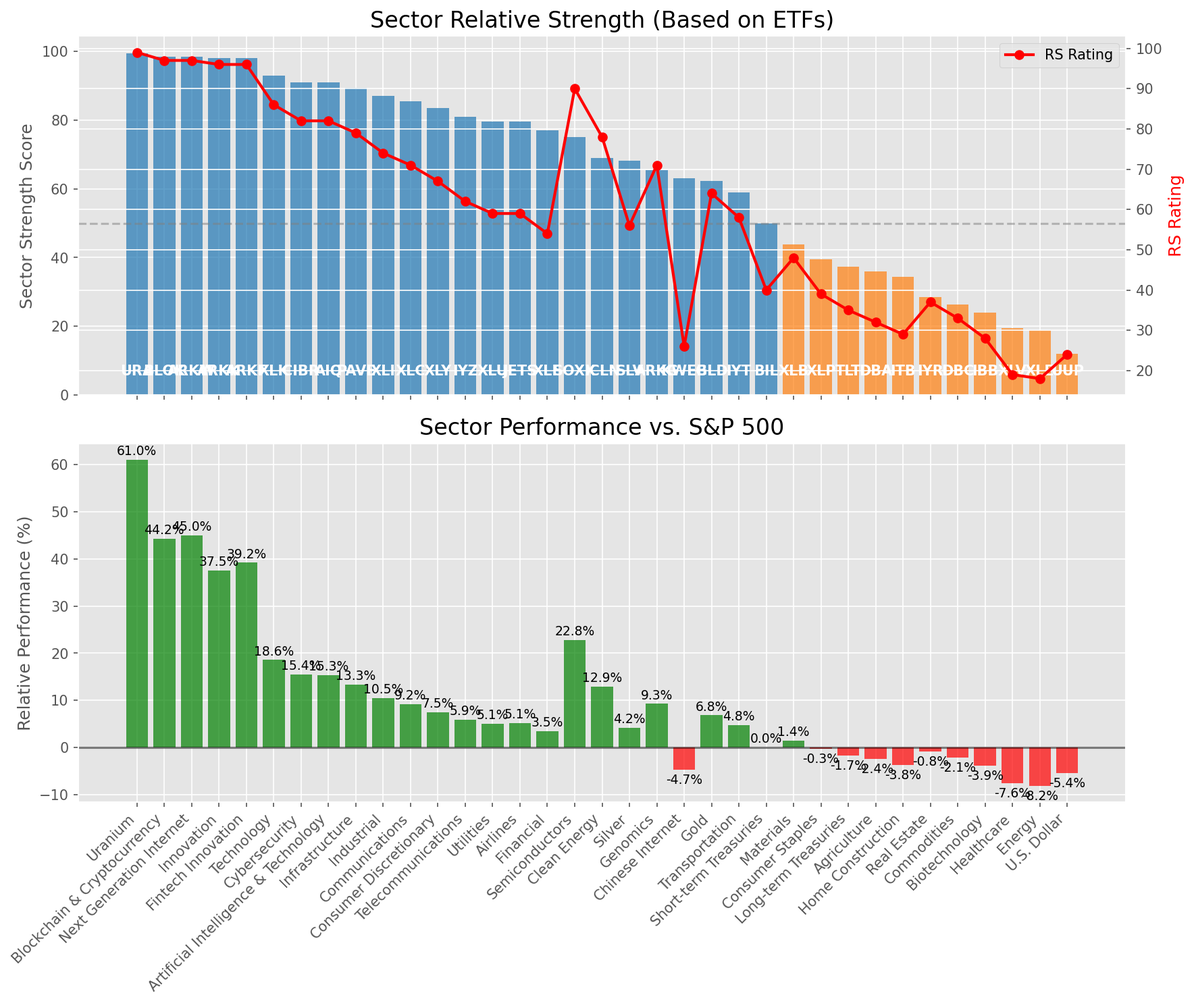
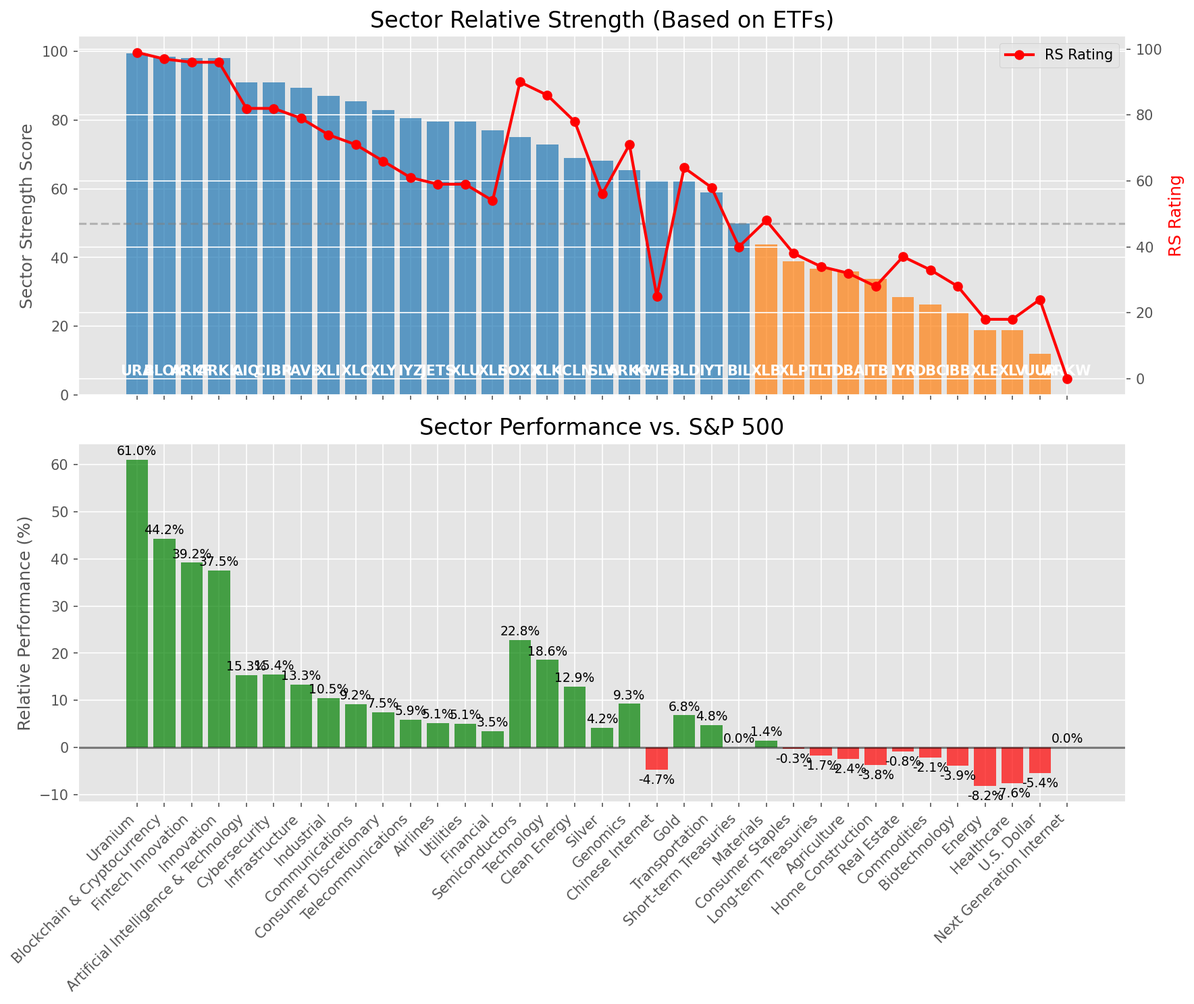
Add market report for 2025-06-29

diff --git a/oneil_relative_strength_report_2025-06-29.md b/oneil_relative_strength_report_2025-06-29.md
@@ -51,39 +51,39 @@ Based on William O'Neil's Relative Strength Methodology
 |-----|----------|-----------|-------------|--------------|-------|--------|
 | [URA](https://www.tradingview.com/chart/?symbol=URA) | 99.5 | 99.0 | 61.04% | 10d ✓, 50d ✓, 200d ✓ | ↗ | Uranium |
 | [BLOK](https://www.tradingview.com/chart/?symbol=BLOK) | 98.5 | 97.0 | 44.22% | 10d ✓, 50d ✓, 200d ✓ | ↗ | Blockchain & Cryptocurrency |
-| [ARKW](https://www.tradingview.com/chart/?symbol=ARKW) | 98.5 | 97.0 | 44.98% | 10d ✓, 50d ✓, 200d ✓ | ↗ | Next Generation Internet |
-| [ARKK](https://www.tradingview.com/chart/?symbol=ARKK) | 98.0 | 96.0 | 37.53% | 10d ✓, 50d ✓, 200d ✓ | ↗ | Innovation |
 | [ARKF](https://www.tradingview.com/chart/?symbol=ARKF) | 98.0 | 96.0 | 39.19% | 10d ✓, 50d ✓, 200d ✓ | ↗ | Fintech Innovation |
-| [XLK](https://www.tradingview.com/chart/?symbol=XLK) | 93.0 | 86.0 | 18.56% | 10d ✓, 50d ✓, 200d ✓ | ↗ | Technology |
-| [CIBR](https://www.tradingview.com/chart/?symbol=CIBR) | 91.0 | 82.0 | 15.45% | 10d ✓, 50d ✓, 200d ✓ | ↗ | Cybersecurity |
+| [ARKK](https://www.tradingview.com/chart/?symbol=ARKK) | 98.0 | 96.0 | 37.53% | 10d ✓, 50d ✓, 200d ✓ | ↗ | Innovation |
 | [AIQ](https://www.tradingview.com/chart/?symbol=AIQ) | 91.0 | 82.0 | 15.28% | 10d ✓, 50d ✓, 200d ✓ | ↗ | Artificial Intelligence & Technology |
+| [CIBR](https://www.tradingview.com/chart/?symbol=CIBR) | 91.0 | 82.0 | 15.45% | 10d ✓, 50d ✓, 200d ✓ | ↗ | Cybersecurity |
 | [PAVE](https://www.tradingview.com/chart/?symbol=PAVE) | 89.5 | 79.0 | 13.28% | 10d ✓, 50d ✓, 200d ✓ | ↗ | Infrastructure |
 | [XLI](https://www.tradingview.com/chart/?symbol=XLI) | 87.0 | 74.0 | 10.46% | 10d ✓, 50d ✓, 200d ✓ | ↗ | Industrial |
 | [XLC](https://www.tradingview.com/chart/?symbol=XLC) | 85.5 | 71.0 | 9.15% | 10d ✓, 50d ✓, 200d ✓ | ↗ | Communications |
-| [XLY](https://www.tradingview.com/chart/?symbol=XLY) | 83.5 | 67.0 | 7.49% | 10d ✓, 50d ✓, 200d ✓ | ↗ | Consumer Discretionary |
-| [IYZ](https://www.tradingview.com/chart/?symbol=IYZ) | 81.0 | 62.0 | 5.93% | 10d ✓, 50d ✓, 200d ✓ | ↗ | Telecommunications |
-| [XLU](https://www.tradingview.com/chart/?symbol=XLU) | 79.5 | 59.0 | 5.06% | 10d ✓, 50d ✓, 200d ✓ | ↗ | Utilities |
+| [XLY](https://www.tradingview.com/chart/?symbol=XLY) | 83.0 | 66.0 | 7.49% | 10d ✓, 50d ✓, 200d ✓ | ↗ | Consumer Discretionary |
+| [IYZ](https://www.tradingview.com/chart/?symbol=IYZ) | 80.5 | 61.0 | 5.93% | 10d ✓, 50d ✓, 200d ✓ | ↗ | Telecommunications |
 | [JETS](https://www.tradingview.com/chart/?symbol=JETS) | 79.5 | 59.0 | 5.14% | 10d ✓, 50d ✓, 200d ✓ | ↗ | Airlines |
+| [XLU](https://www.tradingview.com/chart/?symbol=XLU) | 79.5 | 59.0 | 5.06% | 10d ✓, 50d ✓, 200d ✓ | ↗ | Utilities |
 | [XLF](https://www.tradingview.com/chart/?symbol=XLF) | 77.0 | 54.0 | 3.51% | 10d ✓, 50d ✓, 200d ✓ | ↗ | Financial |
 | [SOXX](https://www.tradingview.com/chart/?symbol=SOXX) | 75.0 | 90.0 | 22.77% | 10d ✓, 50d ✓, 200d ✓ | ↘ | Semiconductors |
+| [XLK](https://www.tradingview.com/chart/?symbol=XLK) | 73.0 | 86.0 | 18.56% | 10d ✓, 50d ✓, 200d ✓ | ↘ | Technology |
 | [ICLN](https://www.tradingview.com/chart/?symbol=ICLN) | 69.0 | 78.0 | 12.92% | 10d ✓, 50d ✓, 200d ✓ | ↘ | Clean Energy |
 | [SLV](https://www.tradingview.com/chart/?symbol=SLV) | 68.1 | 56.0 | 4.15% | 10d ✗, 50d ✓, 200d ✓ | ↗ | Silver |
 | [ARKG](https://www.tradingview.com/chart/?symbol=ARKG) | 65.5 | 71.0 | 9.26% | 10d ✓, 50d ✓, 200d ✓ | ↘ | Genomics |
-| [KWEB](https://www.tradingview.com/chart/?symbol=KWEB) | 63.0 | 26.0 | -4.67% | 10d ✓, 50d ✓, 200d ✓ | ↗ | Chinese Internet |
+| [KWEB](https://www.tradingview.com/chart/?symbol=KWEB) | 62.5 | 25.0 | -4.67% | 10d ✓, 50d ✓, 200d ✓ | ↗ | Chinese Internet |
 | [GLD](https://www.tradingview.com/chart/?symbol=GLD) | 62.2 | 64.0 | 6.83% | 10d ✗, 50d ✗, 200d ✓ | ↗ | Gold |
 | [IYT](https://www.tradingview.com/chart/?symbol=IYT) | 59.0 | 58.0 | 4.81% | 10d ✓, 50d ✓, 200d ✓ | ↘ | Transportation |
 | [BIL](https://www.tradingview.com/chart/?symbol=BIL) | 50.0 | 40.0 | 0.02% | 10d ✓, 50d ✓, 200d ✓ | ↘ | Short-term Treasuries |
 | [XLB](https://www.tradingview.com/chart/?symbol=XLB) | 43.8 | 48.0 | 1.44% | 10d ✓, 50d ✓, 200d ✗ | ↘ | Materials |
-| [XLP](https://www.tradingview.com/chart/?symbol=XLP) | 39.5 | 39.0 | -0.32% | 10d ✗, 50d ✗, 200d ✗ | ↗ | Consumer Staples |
-| [TLT](https://www.tradingview.com/chart/?symbol=TLT) | 37.3 | 35.0 | -1.71% | 10d ✓, 50d ✓, 200d ✗ | ↘ | Long-term Treasuries |
+| [XLP](https://www.tradingview.com/chart/?symbol=XLP) | 39.0 | 38.0 | -0.32% | 10d ✗, 50d ✗, 200d ✗ | ↗ | Consumer Staples |
+| [TLT](https://www.tradingview.com/chart/?symbol=TLT) | 36.8 | 34.0 | -1.71% | 10d ✓, 50d ✓, 200d ✗ | ↘ | Long-term Treasuries |
 | [DBA](https://www.tradingview.com/chart/?symbol=DBA) | 36.0 | 32.0 | -2.35% | 10d ✗, 50d ✗, 200d ✗ | ↗ | Agriculture |
-| [ITB](https://www.tradingview.com/chart/?symbol=ITB) | 34.3 | 29.0 | -3.76% | 10d ✓, 50d ✓, 200d ✗ | ↘ | Home Construction |
+| [ITB](https://www.tradingview.com/chart/?symbol=ITB) | 33.8 | 28.0 | -3.76% | 10d ✓, 50d ✓, 200d ✗ | ↘ | Home Construction |
 | [IYR](https://www.tradingview.com/chart/?symbol=IYR) | 28.4 | 37.0 | -0.79% | 10d ✗, 50d ✓, 200d ✗ | ↘ | Real Estate |
 | [DBC](https://www.tradingview.com/chart/?symbol=DBC) | 26.4 | 33.0 | -2.07% | 10d ✗, 50d ✓, 200d ✗ | ↘ | Commodities |
 | [IBB](https://www.tradingview.com/chart/?symbol=IBB) | 23.9 | 28.0 | -3.88% | 10d ✗, 50d ✓, 200d ✗ | ↘ | Biotechnology |
-| [XLV](https://www.tradingview.com/chart/?symbol=XLV) | 19.4 | 19.0 | -7.62% | 10d ✓, 50d ✗, 200d ✗ | ↘ | Healthcare |
 | [XLE](https://www.tradingview.com/chart/?symbol=XLE) | 18.9 | 18.0 | -8.15% | 10d ✗, 50d ✓, 200d ✗ | ↘ | Energy |
+| [XLV](https://www.tradingview.com/chart/?symbol=XLV) | 18.9 | 18.0 | -7.62% | 10d ✓, 50d ✗, 200d ✗ | ↘ | Healthcare |
 | [UUP](https://www.tradingview.com/chart/?symbol=UUP) | 12.0 | 24.0 | -5.39% | 10d ✗, 50d ✗, 200d ✗ | ↘ | U.S. Dollar |
+| [ARKW](https://www.tradingview.com/chart/?symbol=ARKW) | 0.0 | 0.0 | 0.00% | 10d ✗, 50d ✗, 200d ✗ | ↘ | Next Generation Internet |
 
 ### **Sector ETF Performance Interpretation**
 
@@ -98,7 +98,7 @@ This table shows the relative strength metrics for different market sectors base
 
 ### **Current Sector Leadership**
 
-The current market leadership is coming from the following sectors: **Uranium, Blockchain & Cryptocurrency, Next Generation Internet**.
+The current market leadership is coming from the following sectors: **Uranium, Blockchain & Cryptocurrency, Fintech Innovation**.
 
 The **Uranium** sector (represented by **URA**) is showing particularly strong relative strength with an RS rating of 99.0 and performance of 61.04% vs. the S&P 500. This sector is trading above its 10-day, 50-day, 200-day moving average(s). Investors should consider focusing on high RS stocks within these leading sectors for potential outperformance.
 
@@ -106,11 +106,10 @@ The **Uranium** sector (represented by **URA**) is showing particularly strong r
 
 ## **Buy Recommendations**
 
-The following 97 stocks show exceptional relative strength:
+The following 90 stocks show exceptional relative strength:
 
 | RS Rating | Buy Score | Current Price | Chart | Name | Ticker |
 |-----------|-----------|---------------|-------|------|--------|
-| 100 | 100 | $139.39 | [Chart](https://www.tradingview.com/chart/?symbol=LMB) | Limbach Holdings, Inc Common Stock | LMB |
 | 100 | 100 | $165.40 | [Chart](https://www.tradingview.com/chart/?symbol=SEZL) | Sezzle Inc. Common Stock | SEZL |
 | 100 | 100 | $152.67 | [Chart](https://www.tradingview.com/chart/?symbol=CLS) | Celestica, Inc. | CLS |
 | 100 | 100 | $83.03 | [Chart](https://www.tradingview.com/chart/?symbol=HOOD) | Robinhood Markets, Inc. Class A Common Stock | HOOD |
@@ -127,7 +126,6 @@ The following 97 stocks show exceptional relative strength:
 | 98 | 100 | $275.82 | [Chart](https://www.tradingview.com/chart/?symbol=CRS) | Carpenter Technology Corp | CRS |
 | 98 | 100 | $297.88 | [Chart](https://www.tradingview.com/chart/?symbol=TLN) | Talen Energy Corporation Common Stock | TLN |
 | 98 | 100 | $818.60 | [Chart](https://www.tradingview.com/chart/?symbol=AXON) | Axon Enterprise, Inc. Common Stock | AXON |
-| 98 | 100 | $43.99 | [Chart](https://www.tradingview.com/chart/?symbol=FARO) | Faro Technologies Inc | FARO |
 | 98 | 100 | $315.32 | [Chart](https://www.tradingview.com/chart/?symbol=ZS) | Zscaler, Inc. Common Stock | ZS |
 | 97 | 100 | $21.71 | [Chart](https://www.tradingview.com/chart/?symbol=MIR) | Mirion Technologies, Inc. | MIR |
 | 97 | 100 | $154.71 | [Chart](https://www.tradingview.com/chart/?symbol=IRTC) | iRhythm Technologies, Inc | IRTC |
@@ -135,85 +133,80 @@ The following 97 stocks show exceptional relative strength:
 | 97 | 100 | $45.84 | [Chart](https://www.tradingview.com/chart/?symbol=KTOS) | Kratos Defense & Security Solutions, Inc. | KTOS |
 | 97 | 100 | $39.36 | [Chart](https://www.tradingview.com/chart/?symbol=AS) | Amer Sports, Inc. | AS |
 | 96 | 100 | $54.13 | [Chart](https://www.tradingview.com/chart/?symbol=BBW) | Build-A-Bear Workshop, Inc. | BBW |
-| 96 | 100 | $309.51 | [Chart](https://www.tradingview.com/chart/?symbol=RCL) | Royal Caribbean Group | RCL |
+| 96 | 100 | $1323.12 | [Chart](https://www.tradingview.com/chart/?symbol=NFLX) | NetFlix Inc | NFLX |
 | 96 | 100 | $184.90 | [Chart](https://www.tradingview.com/chart/?symbol=HWM) | Howmet Aerospace Inc. | HWM |
 | 96 | 100 | $149.22 | [Chart](https://www.tradingview.com/chart/?symbol=COOP) | Mr. Cooper Group Inc. Common Stock | COOP |
 | 96 | 100 | $499.33 | [Chart](https://www.tradingview.com/chart/?symbol=CRWD) | CrowdStrike Holdings, Inc. Class A Common Stock | CRWD |
 | 95 | 100 | $772.60 | [Chart](https://www.tradingview.com/chart/?symbol=SPOT) | Spotify Technology S.A. | SPOT |
 | 95 | 100 | $69.40 | [Chart](https://www.tradingview.com/chart/?symbol=URBN) | Urban Outfitters Inc | URBN |
-| 95 | 100 | $1323.12 | [Chart](https://www.tradingview.com/chart/?symbol=NFLX) | NetFlix Inc | NFLX |
 | 95 | 100 | $45.04 | [Chart](https://www.tradingview.com/chart/?symbol=DRS) | Leonardo DRS, Inc. Common Stock | DRS |
 | 94 | 100 | $245.96 | [Chart](https://www.tradingview.com/chart/?symbol=WWD) | Woodward, Inc. | WWD |
+| 94 | 100 | $132.65 | [Chart](https://www.tradingview.com/chart/?symbol=NTES) | NetEase, inc. | NTES |
+| 94 | 100 | $56.19 | [Chart](https://www.tradingview.com/chart/?symbol=AKRO) | Akero Therapeutics, Inc. Common Stock | AKRO |
 | 94 | 100 | $42.83 | [Chart](https://www.tradingview.com/chart/?symbol=CHWY) | Chewy, Inc. | CHWY |
-| 94 | 100 | $76.16 | [Chart](https://www.tradingview.com/chart/?symbol=TPB) | Turning Point Brands, Inc. | TPB |
 | 94 | 100 | $72.17 | [Chart](https://www.tradingview.com/chart/?symbol=ULS) | UL Solutions Inc. | ULS |
+| 94 | 100 | $19.22 | [Chart](https://www.tradingview.com/chart/?symbol=AVPT) | AvePoint, Inc. Class A Common Stock | AVPT |
+| 94 | 100 | $73.22 | [Chart](https://www.tradingview.com/chart/?symbol=CORT) | Corcept Therapeutics Inc. | CORT |
 | 94 | 100 | $34.52 | [Chart](https://www.tradingview.com/chart/?symbol=UTI) | Universal Technical Institute, Inc. | UTI |
 | 93 | 100 | $53.96 | [Chart](https://www.tradingview.com/chart/?symbol=IBKR) | Interactive Brokers Group, Inc. Class A Common Stock | IBKR |
-| 93 | 100 | $56.19 | [Chart](https://www.tradingview.com/chart/?symbol=AKRO) | Akero Therapeutics, Inc. Common Stock | AKRO |
 | 93 | 100 | $105.07 | [Chart](https://www.tradingview.com/chart/?symbol=JCI) | Johnson Controls International plc | JCI |
-| 93 | 100 | $73.22 | [Chart](https://www.tradingview.com/chart/?symbol=CORT) | Corcept Therapeutics Inc. | CORT |
 | 93 | 100 | $23.54 | [Chart](https://www.tradingview.com/chart/?symbol=BTSG) | BrightSpring Health Services, Inc. Common Stock | BTSG |
 | 93 | 100 | $41.46 | [Chart](https://www.tradingview.com/chart/?symbol=KD) | Kyndryl Holdings, Inc. | KD |
 | 93 | 100 | $32.98 | [Chart](https://www.tradingview.com/chart/?symbol=PRDO) | Perdoceo Education Corporation | PRDO |
-| 93 | 100 | $40.09 | [Chart](https://www.tradingview.com/chart/?symbol=LTM) | LATAM Airlines Group S.A. American Depositary Shares (each representing two thousand (2,000) shares of Common Stock) | LTM |
 | 92 | 100 | $242.31 | [Chart](https://www.tradingview.com/chart/?symbol=DASH) | DoorDash, Inc. Class A Common Stock | DASH |
 | 92 | 100 | $98.07 | [Chart](https://www.tradingview.com/chart/?symbol=SANM) | Sanmina  Corp | SANM |
+| 92 | 100 | $28.05 | [Chart](https://www.tradingview.com/chart/?symbol=SRAD) | Sportradar Group AG Class A Ordinary Shares | SRAD |
+| 91 | 100 | $83.25 | [Chart](https://www.tradingview.com/chart/?symbol=SLNO) | Soleno Therapeutics, Inc. Common Stock | SLNO |
 | 91 | 100 | $43.89 | [Chart](https://www.tradingview.com/chart/?symbol=TOST) | Toast, Inc. | TOST |
 | 91 | 100 | $30.40 | [Chart](https://www.tradingview.com/chart/?symbol=DB) | Deutsche Bank Aktiengesellschaft | DB |
-| 91 | 100 | $28.05 | [Chart](https://www.tradingview.com/chart/?symbol=SRAD) | Sportradar Group AG Class A Ordinary Shares | SRAD |
 | 91 | 100 | $23.91 | [Chart](https://www.tradingview.com/chart/?symbol=KAR) | OPENLANE, Inc | KAR |
 | 91 | 100 | $254.51 | [Chart](https://www.tradingview.com/chart/?symbol=GE) | GE Aerospace | GE |
 | 91 | 100 | $59.18 | [Chart](https://www.tradingview.com/chart/?symbol=SHLD) | Global X Defense Tech ETF | SHLD |
 | 90 | 100 | $60.72 | [Chart](https://www.tradingview.com/chart/?symbol=IBIT) | iShares Bitcoin Trust ETF | IBIT |
-| 90 | 100 | $83.25 | [Chart](https://www.tradingview.com/chart/?symbol=SLNO) | Soleno Therapeutics, Inc. Common Stock | SLNO |
-| 90 | 100 | $140.56 | [Chart](https://www.tradingview.com/chart/?symbol=PPA) | Invesco Aerospace & Defense ETF | PPA |
+| 90 | 100 | $167.18 | [Chart](https://www.tradingview.com/chart/?symbol=CAH) | Cardinal Health, Inc. | CAH |
 | 90 | 100 | $53.41 | [Chart](https://www.tradingview.com/chart/?symbol=MRCY) | Mercury Systems Inc. | MRCY |
 | 90 | 100 | $44.86 | [Chart](https://www.tradingview.com/chart/?symbol=BBIO) | BridgeBio Pharma, Inc. Common Stock | BBIO |
 | 90 | 100 | $48.80 | [Chart](https://www.tradingview.com/chart/?symbol=INOD) | Innodata Inc. | INOD |
-| 89 | 100 | $167.18 | [Chart](https://www.tradingview.com/chart/?symbol=CAH) | Cardinal Health, Inc. | CAH |
 | 89 | 100 | $27.59 | [Chart](https://www.tradingview.com/chart/?symbol=UVE) | UNIVERSAL INSURANCE HLDG, INC. | UVE |
+| 89 | 100 | $20.40 | [Chart](https://www.tradingview.com/chart/?symbol=SPNT) | SiriusPoint Ltd. | SPNT |
 | 89 | 100 | $62.25 | [Chart](https://www.tradingview.com/chart/?symbol=CAKE) | Cheesecake Factory (The) | CAKE |
-| 88 | 100 | $122.20 | [Chart](https://www.tradingview.com/chart/?symbol=EHC) | Encompass Health Corporation Common Stock | EHC |
 | 88 | 100 | $36.07 | [Chart](https://www.tradingview.com/chart/?symbol=AHR) | American Healthcare REIT, Inc. | AHR |
 | 87 | 100 | $159.31 | [Chart](https://www.tradingview.com/chart/?symbol=SE) | Sea Limited American Depositary Shares, each representing one Class A Ordinary Share | SE |
-| 88 | 99 | $20.40 | [Chart](https://www.tradingview.com/chart/?symbol=SPNT) | SiriusPoint Ltd. | SPNT |
-| 87 | 99 | $313.08 | [Chart](https://www.tradingview.com/chart/?symbol=PODD) | Insulet Corporation | PODD |
-| 87 | 99 | $87.11 | [Chart](https://www.tradingview.com/chart/?symbol=TPR) | Tapestry, Inc. Common Stock | TPR |
+| 89 | 99 | $2560.05 | [Chart](https://www.tradingview.com/chart/?symbol=MELI) | Mercado Libre, Inc | MELI |
+| 88 | 99 | $122.20 | [Chart](https://www.tradingview.com/chart/?symbol=EHC) | Encompass Health Corporation Common Stock | EHC |
+| 88 | 99 | $313.08 | [Chart](https://www.tradingview.com/chart/?symbol=PODD) | Insulet Corporation | PODD |
+| 86 | 99 | $63.53 | [Chart](https://www.tradingview.com/chart/?symbol=CHEF) | The Chef's Warehouse Inc | CHEF |
 | 86 | 99 | $43.67 | [Chart](https://www.tradingview.com/chart/?symbol=EXEL) | Exelixis Inc | EXEL |
-| 87 | 98 | $5693.13 | [Chart](https://www.tradingview.com/chart/?symbol=BKNG) | Booking Holdings Inc. Common Stock | BKNG |
-| 87 | 98 | $187.55 | [Chart](https://www.tradingview.com/chart/?symbol=ITA) | iShares U.S. Aerospace & Defense ETF | ITA |
 | 87 | 98 | $283.41 | [Chart](https://www.tradingview.com/chart/?symbol=VEEV) | Veeva Systems Inc. | VEEV |
+| 87 | 98 | $87.11 | [Chart](https://www.tradingview.com/chart/?symbol=TPR) | Tapestry, Inc. Common Stock | TPR |
+| 87 | 98 | $74.39 | [Chart](https://www.tradingview.com/chart/?symbol=CTVA) | Corteva, Inc. Common Stock | CTVA |
+| 85 | 98 | $18.61 | [Chart](https://www.tradingview.com/chart/?symbol=BCS) | Barclays PLC | BCS |
 | 85 | 98 | $44.42 | [Chart](https://www.tradingview.com/chart/?symbol=VIRT) | Virtu Financial, Inc. Class A | VIRT |
-| 85 | 98 | $63.53 | [Chart](https://www.tradingview.com/chart/?symbol=CHEF) | The Chef's Warehouse Inc | CHEF |
 | 85 | 98 | $179.35 | [Chart](https://www.tradingview.com/chart/?symbol=TKO) | TKO Group Holdings, Inc. | TKO |
-| 85 | 98 | $289.70 | [Chart](https://www.tradingview.com/chart/?symbol=IBM) | International Business Machines Corporation | IBM |
+| 87 | 97 | $5693.13 | [Chart](https://www.tradingview.com/chart/?symbol=BKNG) | Booking Holdings Inc. Common Stock | BKNG |
 | 86 | 97 | $77.27 | [Chart](https://www.tradingview.com/chart/?symbol=USFD) | US Foods Holding Corp. | USFD |
-| 86 | 97 | $74.39 | [Chart](https://www.tradingview.com/chart/?symbol=CTVA) | Corteva, Inc. Common Stock | CTVA |
-| 84 | 97 | $18.61 | [Chart](https://www.tradingview.com/chart/?symbol=BCS) | Barclays PLC | BCS |
-| 84 | 97 | $180.05 | [Chart](https://www.tradingview.com/chart/?symbol=EAT) | Brinker International, Inc. | EAT |
+| 85 | 97 | $289.70 | [Chart](https://www.tradingview.com/chart/?symbol=IBM) | International Business Machines Corporation | IBM |
 | 83 | 97 | $91.38 | [Chart](https://www.tradingview.com/chart/?symbol=SNEX) | StoneX Group Inc. Common Stock | SNEX |
-| 86 | 96 | $111.84 | [Chart](https://www.tradingview.com/chart/?symbol=SPMO) | Invesco S&P 500 Momentum ETF | SPMO |
-| 85 | 96 | $105.27 | [Chart](https://www.tradingview.com/chart/?symbol=FWONK) | Liberty Media Corporation Series C Liberty Formula One Common Stock | FWONK |
+| 87 | 96 | $187.55 | [Chart](https://www.tradingview.com/chart/?symbol=ITA) | iShares U.S. Aerospace & Defense ETF | ITA |
 | 84 | 96 | $397.89 | [Chart](https://www.tradingview.com/chart/?symbol=CYBR) | CyberArk Software Ltd. | CYBR |
 | 86 | 95 | $211.01 | [Chart](https://www.tradingview.com/chart/?symbol=COF) | Capital One Financial | COF |
 | 85 | 95 | $132.80 | [Chart](https://www.tradingview.com/chart/?symbol=OLLI) | Ollie's Bargain Outlet Holdings, Inc. Common Stock | OLLI |
+| 85 | 95 | $105.27 | [Chart](https://www.tradingview.com/chart/?symbol=FWONK) | Liberty Media Corporation Series C Liberty Formula One Common Stock | FWONK |
 | 84 | 95 | $149.99 | [Chart](https://www.tradingview.com/chart/?symbol=LYV) | Live Nation Entertainment Inc. | LYV |
 | 84 | 95 | $223.90 | [Chart](https://www.tradingview.com/chart/?symbol=BAP) | Credicorp LTD | BAP |
-| 83 | 95 | $80.45 | [Chart](https://www.tradingview.com/chart/?symbol=LLYVK) | Liberty Media Corporation Series C Liberty Live Common Stock | LLYVK |
-| 81 | 95 | $20.30 | [Chart](https://www.tradingview.com/chart/?symbol=KT) | KT Corp. | KT |
-| 84 | 94 | $89.08 | [Chart](https://www.tradingview.com/chart/?symbol=NDAQ) | Nasdaq, Inc. Common Stock | NDAQ |
-| 82 | 94 | $74.59 | [Chart](https://www.tradingview.com/chart/?symbol=CIBR) | First Trust Exchange-Traded Fund II First Trust NASDAQ Cybersecurity ETF | CIBR |
+| 83 | 94 | $80.45 | [Chart](https://www.tradingview.com/chart/?symbol=LLYVK) | Liberty Media Corporation Series C Liberty Live Common Stock | LLYVK |
 | 81 | 94 | $28.21 | [Chart](https://www.tradingview.com/chart/?symbol=FMS) | Fresenius Medical Care AG | FMS |
-| 82 | 92 | $65.93 | [Chart](https://www.tradingview.com/chart/?symbol=SLF) | Sun Life Financial Inc. | SLF |
-| 81 | 91 | $89.56 | [Chart](https://www.tradingview.com/chart/?symbol=SEIC) | SEI Investments Co | SEIC |
+| 81 | 94 | $20.30 | [Chart](https://www.tradingview.com/chart/?symbol=KT) | KT Corp. | KT |
+| 82 | 93 | $74.59 | [Chart](https://www.tradingview.com/chart/?symbol=CIBR) | First Trust Exchange-Traded Fund II First Trust NASDAQ Cybersecurity ETF | CIBR |
 | 81 | 91 | $28.39 | [Chart](https://www.tradingview.com/chart/?symbol=NTGR) | NETGEAR, Inc. | NTGR |
+| 81 | 90 | $25.20 | [Chart](https://www.tradingview.com/chart/?symbol=PUK) | PRUDENTIAL PLC ADS (REP 2 ORD SHARES) | PUK |
 
 ---
 
 
 ## **Sell Recommendations**
 
-The following 81 stocks show deteriorating relative strength:
+The following 73 stocks show deteriorating relative strength:
 
 | RS Rating | Sell Score | Current Price | Chart | Name | Ticker |
 |-----------|------------|---------------|-------|------|--------|
@@ -224,80 +217,72 @@ The following 81 stocks show deteriorating relative strength:
 | 1 | 100 | $28.34 | [Chart](https://www.tradingview.com/chart/?symbol=HELE) | Helen Of Troy Ltd | HELE |
 | 2 | 100 | $11.64 | [Chart](https://www.tradingview.com/chart/?symbol=NRIX) | Nurix Therapeutics, Inc. Common stock | NRIX |
 | 2 | 100 | $25.63 | [Chart](https://www.tradingview.com/chart/?symbol=QID) | ProShares UltraShort QQQ | QID |
-| 2 | 100 | $10.76 | [Chart](https://www.tradingview.com/chart/?symbol=WNC) | Wabash National Corp. | WNC |
+| 2 | 100 | $11.84 | [Chart](https://www.tradingview.com/chart/?symbol=VFC) | V.F. Corporation | VFC |
 | 3 | 100 | $21.16 | [Chart](https://www.tradingview.com/chart/?symbol=AMRK) | A-Mark Precious Metals, Inc. | AMRK |
-| 3 | 100 | $17.17 | [Chart](https://www.tradingview.com/chart/?symbol=SRTY) | ProShares UltraPro Short Russell2000 | SRTY |
 | 3 | 100 | $35.96 | [Chart](https://www.tradingview.com/chart/?symbol=SARK) | Investment Managers Series Trust II Tradr 1X Short Innovation Daily ETF | SARK |
-| 3 | 100 | $11.84 | [Chart](https://www.tradingview.com/chart/?symbol=VFC) | V.F. Corporation | VFC |
 | 3 | 100 | $44.09 | [Chart](https://www.tradingview.com/chart/?symbol=LINE) | Lineage, Inc. Common Stock | LINE |
+| 4 | 100 | $48.20 | [Chart](https://www.tradingview.com/chart/?symbol=CCOI) | Cogent Communications Holdings, Inc. | CCOI |
 | 4 | 100 | $10.77 | [Chart](https://www.tradingview.com/chart/?symbol=MBC) | MasterBrand, Inc. | MBC |
 | 5 | 100 | $19.81 | [Chart](https://www.tradingview.com/chart/?symbol=BITI) | ProShares Short Bitcoin ETF | BITI |
-| 5 | 100 | $48.20 | [Chart](https://www.tradingview.com/chart/?symbol=CCOI) | Cogent Communications Holdings, Inc. | CCOI |
 | 5 | 100 | $24.73 | [Chart](https://www.tradingview.com/chart/?symbol=ASTH) | Astrana Health Inc. Common Stock | ASTH |
 | 5 | 100 | $15.23 | [Chart](https://www.tradingview.com/chart/?symbol=PD) | PagerDuty, Inc. | PD |
 | 5 | 100 | $22.12 | [Chart](https://www.tradingview.com/chart/?symbol=RYN) | Rayonier Inc. | RYN |
+| 7 | 100 | $81.49 | [Chart](https://www.tradingview.com/chart/?symbol=LNTH) | Lantheus Holdings, Inc | LNTH |
 | 7 | 100 | $42.23 | [Chart](https://www.tradingview.com/chart/?symbol=SDOW) | ProShares UltraPro Short Dow 30 | SDOW |
-| 8 | 100 | $81.49 | [Chart](https://www.tradingview.com/chart/?symbol=LNTH) | Lantheus Holdings, Inc | LNTH |
+| 8 | 100 | $11.57 | [Chart](https://www.tradingview.com/chart/?symbol=KELYA) | Kelly Services Inc | KELYA |
 | 9 | 100 | $29.96 | [Chart](https://www.tradingview.com/chart/?symbol=CRNX) | Crinetics Pharmaceuticals, Inc. | CRNX |
 | 9 | 100 | $17.40 | [Chart](https://www.tradingview.com/chart/?symbol=DJT) | Trump Media & Technology Group Corp. Common Stock | DJT |
-| 9 | 100 | $11.57 | [Chart](https://www.tradingview.com/chart/?symbol=KELYA) | Kelly Services Inc | KELYA |
 | 11 | 100 | $10.56 | [Chart](https://www.tradingview.com/chart/?symbol=ABR) | Arbor Realty Trust, Inc. | ABR |
-| 11 | 100 | $10.02 | [Chart](https://www.tradingview.com/chart/?symbol=LBTYA) | Liberty Global Ltd. Class A Common Shares | LBTYA |
 | 11 | 100 | $86.13 | [Chart](https://www.tradingview.com/chart/?symbol=BIDU) | Baidu, Inc. | BIDU |
 | 13 | 100 | $29.03 | [Chart](https://www.tradingview.com/chart/?symbol=RNA) | Avidity Biosciences, Inc. Common Stock | RNA |
 | 6 | 99 | $65.82 | [Chart](https://www.tradingview.com/chart/?symbol=WK) | Workiva Inc. | WK |
 | 7 | 99 | $30.89 | [Chart](https://www.tradingview.com/chart/?symbol=FUN) | Six Flags Entertainment Corporation | FUN |
-| 7 | 99 | $17.25 | [Chart](https://www.tradingview.com/chart/?symbol=CODI) | Compass Diversified | CODI |
+| 8 | 99 | $105.14 | [Chart](https://www.tradingview.com/chart/?symbol=PDD) | PDD Holdings Inc. American Depositary Shares | PDD |
 | 10 | 99 | $11.35 | [Chart](https://www.tradingview.com/chart/?symbol=M) | Macy's Inc. | M |
-| 8 | 98 | $105.14 | [Chart](https://www.tradingview.com/chart/?symbol=PDD) | PDD Holdings Inc. American Depositary Shares | PDD |
+| 8 | 98 | $27.20 | [Chart](https://www.tradingview.com/chart/?symbol=WMG) | Warner Music Group Corp. Class A Common Stock | WMG |
+| 10 | 98 | $13.56 | [Chart](https://www.tradingview.com/chart/?symbol=OCSL) | Oaktree Specialty Lending Corporation | OCSL |
 | 12 | 98 | $381.49 | [Chart](https://www.tradingview.com/chart/?symbol=ELV) | Elevance Health, Inc. | ELV |
 | 12 | 98 | $17.78 | [Chart](https://www.tradingview.com/chart/?symbol=ZTO) | ZTO Express (Cayman) Inc. American Depositary Shares, each representing one Class A ordinary share | ZTO |
-| 14 | 98 | $72.67 | [Chart](https://www.tradingview.com/chart/?symbol=TNET) | TRINET GROUP, INC. | TNET |
-| 8 | 97 | $27.20 | [Chart](https://www.tradingview.com/chart/?symbol=WMG) | Warner Music Group Corp. Class A Common Stock | WMG |
-| 11 | 97 | $13.56 | [Chart](https://www.tradingview.com/chart/?symbol=OCSL) | Oaktree Specialty Lending Corporation | OCSL |
+| 14 | 97 | $72.67 | [Chart](https://www.tradingview.com/chart/?symbol=TNET) | TRINET GROUP, INC. | TNET |
 | 23 | 97 | $15.53 | [Chart](https://www.tradingview.com/chart/?symbol=HQH) | abrdn Healthcare Investors | HQH |
 | 15 | 96 | $30.39 | [Chart](https://www.tradingview.com/chart/?symbol=BAX) | Baxter International Inc. | BAX |
-| 7 | 94 | $132.41 | [Chart](https://www.tradingview.com/chart/?symbol=INSP) | Inspire Medical Systems, Inc. | INSP |
-| 18 | 94 | $26.12 | [Chart](https://www.tradingview.com/chart/?symbol=ZSL) | ProShares UltraShort Silver | ZSL |
+| 6 | 95 | $132.41 | [Chart](https://www.tradingview.com/chart/?symbol=INSP) | Inspire Medical Systems, Inc. | INSP |
+| 16 | 94 | $23.62 | [Chart](https://www.tradingview.com/chart/?symbol=HOG) | Harley-Davidson, Inc. | HOG |
+| 8 | 93 | $15.74 | [Chart](https://www.tradingview.com/chart/?symbol=QNST) | QuinStreet, Inc. | QNST |
 | 9 | 93 | $33.87 | [Chart](https://www.tradingview.com/chart/?symbol=PSQ) | ProShares Short QQQ | PSQ |
-| 17 | 93 | $23.62 | [Chart](https://www.tradingview.com/chart/?symbol=HOG) | Harley-Davidson, Inc. | HOG |
+| 18 | 93 | $26.12 | [Chart](https://www.tradingview.com/chart/?symbol=ZSL) | ProShares UltraShort Silver | ZSL |
 | 20 | 93 | $10.32 | [Chart](https://www.tradingview.com/chart/?symbol=NMZ) | Nuveen Municipal High Income Opportunity Fund | NMZ |
-| 8 | 92 | $15.74 | [Chart](https://www.tradingview.com/chart/?symbol=QNST) | QuinStreet, Inc. | QNST |
-| 10 | 91 | $12.53 | [Chart](https://www.tradingview.com/chart/?symbol=WSR) | Whitestone REIT | WSR |
+| 10 | 92 | $12.53 | [Chart](https://www.tradingview.com/chart/?symbol=WSR) | Whitestone REIT | WSR |
+| 20 | 91 | $10.38 | [Chart](https://www.tradingview.com/chart/?symbol=MYI) | BLACKROCK MUNIYIELD QUALITY FUND III, INC. | MYI |
 | 10 | 90 | $38.89 | [Chart](https://www.tradingview.com/chart/?symbol=PCH) | PotlatchDeltic Corporation Common Stock | PCH |
 | 14 | 90 | $24.53 | [Chart](https://www.tradingview.com/chart/?symbol=DXD) | ProShares UltraShort Dow 30 | DXD |
-| 15 | 90 | $35.15 | [Chart](https://www.tradingview.com/chart/?symbol=WPP) | WPP PLC | WPP |
 | 18 | 90 | $25.93 | [Chart](https://www.tradingview.com/chart/?symbol=ATHM) | Autohome Inc. American Depositary Shares, each representing four Class A Ordinary Shares | ATHM |
-| 21 | 89 | $10.38 | [Chart](https://www.tradingview.com/chart/?symbol=MYI) | BLACKROCK MUNIYIELD QUALITY FUND III, INC. | MYI |
 | 22 | 89 | $70.35 | [Chart](https://www.tradingview.com/chart/?symbol=TTC) | Toro Company (The) | TTC |
 | 14 | 88 | $201.08 | [Chart](https://www.tradingview.com/chart/?symbol=AAPL) | Apple Inc. | AAPL |
-| 16 | 88 | $39.87 | [Chart](https://www.tradingview.com/chart/?symbol=SH) | ProShares Short S&P500 | SH |
-| 18 | 88 | $46.38 | [Chart](https://www.tradingview.com/chart/?symbol=GLPI) | Gaming and Leisure Properties, Inc. | GLPI |
-| 20 | 88 | $21.37 | [Chart](https://www.tradingview.com/chart/?symbol=KIDS) | OrthoPediatrics Corp. Common Stock | KIDS |
-| 18 | 86 | $297.05 | [Chart](https://www.tradingview.com/chart/?symbol=MOH) | Molina Healthcare, Inc. | MOH |
+| 16 | 87 | $39.87 | [Chart](https://www.tradingview.com/chart/?symbol=SH) | ProShares Short S&P500 | SH |
+| 17 | 87 | $297.05 | [Chart](https://www.tradingview.com/chart/?symbol=MOH) | Molina Healthcare, Inc. | MOH |
+| 18 | 87 | $46.38 | [Chart](https://www.tradingview.com/chart/?symbol=GLPI) | Gaming and Leisure Properties, Inc. | GLPI |
+| 18 | 87 | $17.85 | [Chart](https://www.tradingview.com/chart/?symbol=S) | SentinelOne, Inc. | S |
 | 18 | 86 | $23.33 | [Chart](https://www.tradingview.com/chart/?symbol=COLB) | Columbia Banking Systems Inc | COLB |
-| 19 | 85 | $17.85 | [Chart](https://www.tradingview.com/chart/?symbol=S) | SentinelOne, Inc. | S |
-| 19 | 84 | $284.27 | [Chart](https://www.tradingview.com/chart/?symbol=UTHR) | United Therapeutics Corp | UTHR |
-| 22 | 84 | $138.02 | [Chart](https://www.tradingview.com/chart/?symbol=OC) | Owens Corning | OC |
-| 26 | 84 | $47.25 | [Chart](https://www.tradingview.com/chart/?symbol=SPHD) | Invesco S&P 500 High Dividend Low Volatility ETF | SPHD |
-| 27 | 84 | $25.63 | [Chart](https://www.tradingview.com/chart/?symbol=DOG) | ProShares Short Dow30 | DOG |
-| 17 | 83 | $131.82 | [Chart](https://www.tradingview.com/chart/?symbol=ICUI) | ICU Medical Inc | ICUI |
-| 19 | 83 | $17.57 | [Chart](https://www.tradingview.com/chart/?symbol=DIV) | Global X SuperDividend U.S. ETF | DIV |
+| 18 | 86 | $284.27 | [Chart](https://www.tradingview.com/chart/?symbol=UTHR) | United Therapeutics Corp | UTHR |
+| 21 | 86 | $138.02 | [Chart](https://www.tradingview.com/chart/?symbol=OC) | Owens Corning | OC |
+| 25 | 85 | $47.25 | [Chart](https://www.tradingview.com/chart/?symbol=SPHD) | Invesco S&P 500 High Dividend Low Volatility ETF | SPHD |
+| 17 | 84 | $131.82 | [Chart](https://www.tradingview.com/chart/?symbol=ICUI) | ICU Medical Inc | ICUI |
+| 26 | 84 | $25.63 | [Chart](https://www.tradingview.com/chart/?symbol=DOG) | ProShares Short Dow30 | DOG |
 | 18 | 82 | $40.71 | [Chart](https://www.tradingview.com/chart/?symbol=UDR) | UDR, Inc. | UDR |
-| 26 | 81 | $105.62 | [Chart](https://www.tradingview.com/chart/?symbol=PLD) | PROLOGIS, INC. | PLD |
-| 21 | 80 | $26.06 | [Chart](https://www.tradingview.com/chart/?symbol=DRV) | Direxion Daily Real Estate Bear 3X Shares | DRV |
+| 28 | 82 | $10.35 | [Chart](https://www.tradingview.com/chart/?symbol=MUC) | BLACKROCK MUNIHOLDINGS CALIFORNIA QUALITY FUND, INC | MUC |
+| 26 | 80 | $105.62 | [Chart](https://www.tradingview.com/chart/?symbol=PLD) | PROLOGIS, INC. | PLD |
 | 29 | 80 | $15.08 | [Chart](https://www.tradingview.com/chart/?symbol=PLSE) | Pulse Biosciences, Inc Common Stock (DE) | PLSE |
-| 29 | 80 | $10.35 | [Chart](https://www.tradingview.com/chart/?symbol=MUC) | BLACKROCK MUNIHOLDINGS CALIFORNIA QUALITY FUND, INC | MUC |
-| 26 | 78 | $29.00 | [Chart](https://www.tradingview.com/chart/?symbol=APPN) | Appian Corporation Class A Common Stock | APPN |
+| 25 | 79 | $29.00 | [Chart](https://www.tradingview.com/chart/?symbol=APPN) | Appian Corporation Class A Common Stock | APPN |
 | 24 | 77 | $37.96 | [Chart](https://www.tradingview.com/chart/?symbol=LZB) | La-Z-Boy Incorporated | LZB |
 | 29 | 77 | $41.89 | [Chart](https://www.tradingview.com/chart/?symbol=NBTB) | NBT Bancorp Inc | NBTB |
-| 27 | 75 | $32.72 | [Chart](https://www.tradingview.com/chart/?symbol=INVH) | Invitation Homes Inc. Common Stock | INVH |
-| 34 | 75 | $197.48 | [Chart](https://www.tradingview.com/chart/?symbol=RGA) | Reinsurance Group of America, Incorporated | RGA |
+| 34 | 76 | $197.48 | [Chart](https://www.tradingview.com/chart/?symbol=RGA) | Reinsurance Group of America, Incorporated | RGA |
 | 26 | 74 | $36.92 | [Chart](https://www.tradingview.com/chart/?symbol=WTRG) | Essential Utilities, Inc. | WTRG |
-| 28 | 74 | $35.94 | [Chart](https://www.tradingview.com/chart/?symbol=AMH) | AMERICAN HOMES 4 RENT | AMH |
-| 38 | 72 | $12.00 | [Chart](https://www.tradingview.com/chart/?symbol=ZVZZT) | SUPER Montage TEST SYMBOL | ZVZZT |
-| 32 | 70 | $68.91 | [Chart](https://www.tradingview.com/chart/?symbol=BRC) | Brady Corporation | BRC |
-| 36 | 70 | $26.88 | [Chart](https://www.tradingview.com/chart/?symbol=FREL) | Fidelity MSCI Real Estate Index ETF | FREL |
+| 27 | 74 | $32.72 | [Chart](https://www.tradingview.com/chart/?symbol=INVH) | Invitation Homes Inc. Common Stock | INVH |
+| 27 | 74 | $35.94 | [Chart](https://www.tradingview.com/chart/?symbol=AMH) | AMERICAN HOMES 4 RENT | AMH |
+| 31 | 71 | $68.91 | [Chart](https://www.tradingview.com/chart/?symbol=BRC) | Brady Corporation | BRC |
+| 35 | 71 | $26.88 | [Chart](https://www.tradingview.com/chart/?symbol=FREL) | Fidelity MSCI Real Estate Index ETF | FREL |
+| 39 | 68 | $120.48 | [Chart](https://www.tradingview.com/chart/?symbol=GPC) | Genuine Parts Company | GPC |
 
 ## **Methodology**
 
